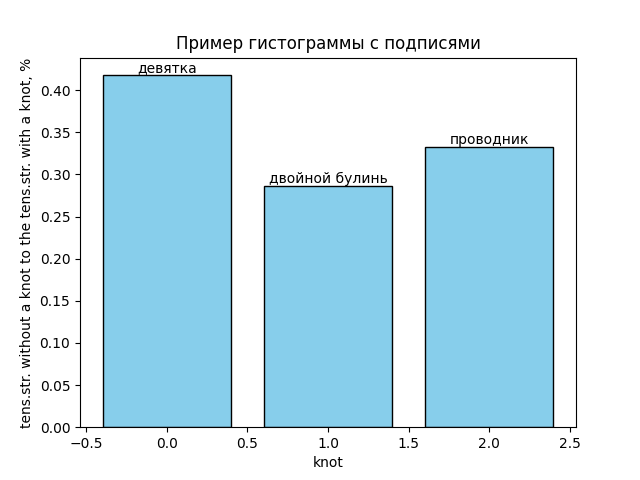
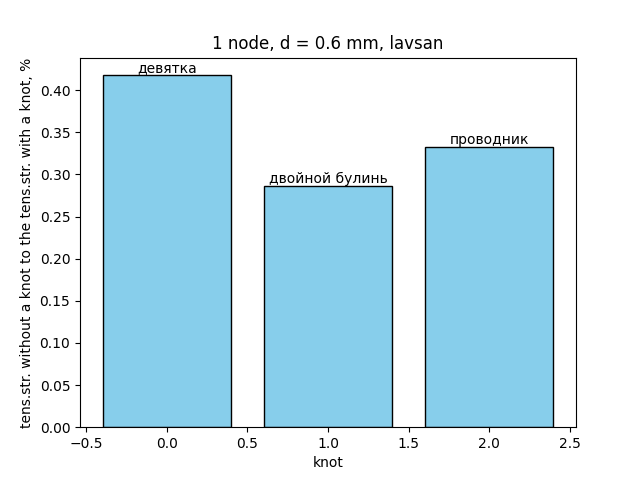
Add files via upload

Changed region(s): [[0.2812, 0.0625, 0.75, 0.125]]

diff --git a/prog_1_thread_max_to_node.py b/prog_1_thread_max_to_node.py
@@ -20,7 +20,7 @@ for bar, value in zip(bars, data):
     i=i+1
 
 # Добавляем заголовок и метки осей
-plt.title('Пример гистограммы с подписями')
+plt.title('1 node, d = 0.6 mm, lavsan')
 plt.xlabel(x_name)
 plt.ylabel(y_name)
 
